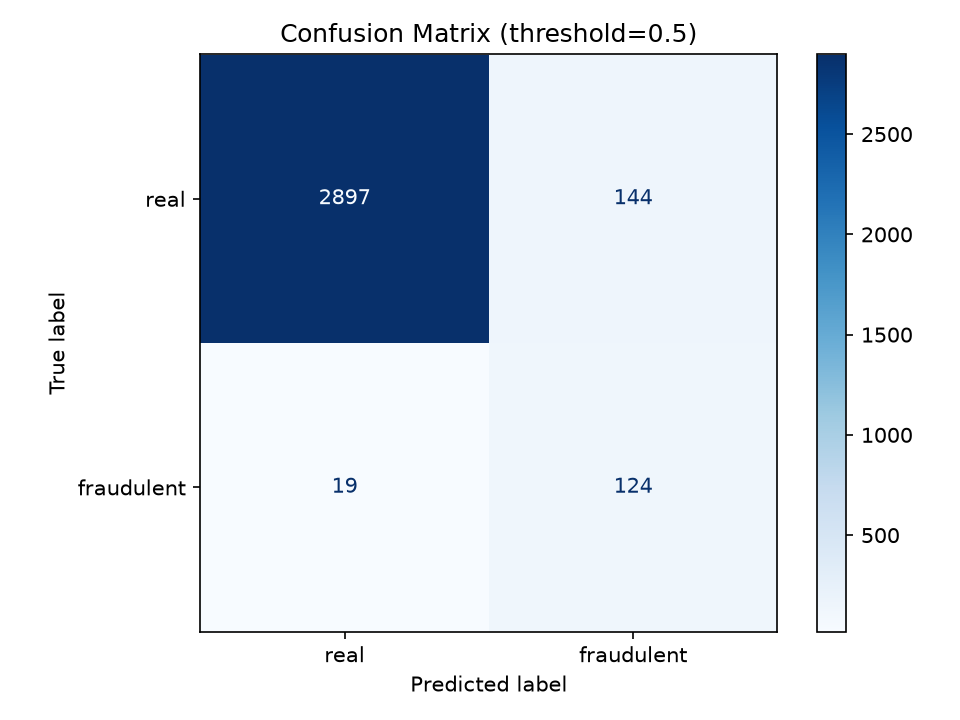
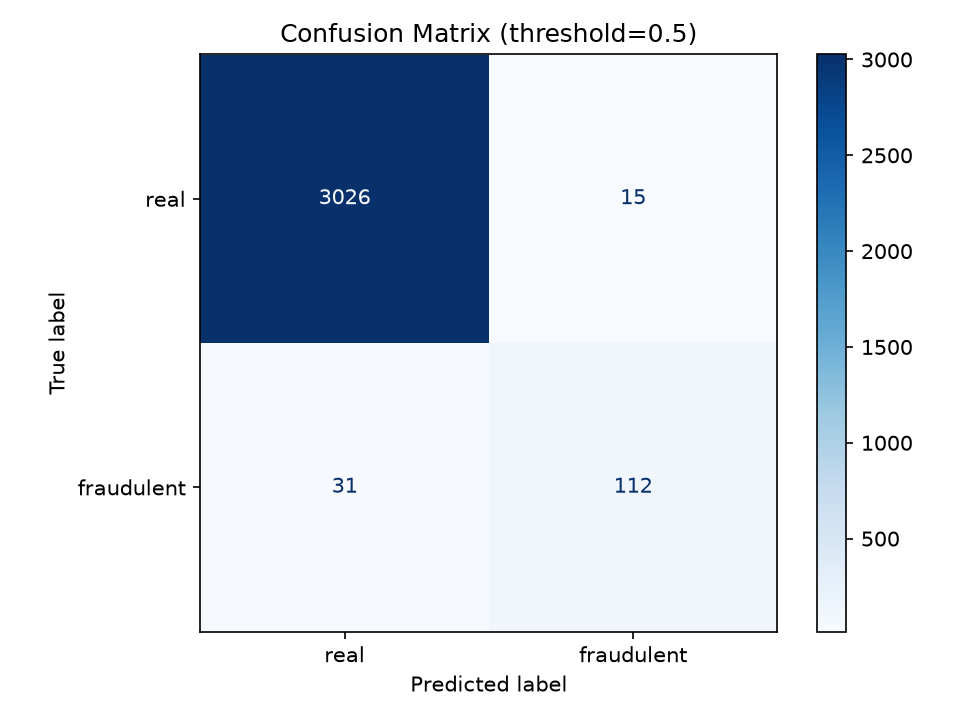
Add LightGBM results, LightGBM outperforms baseline LogReg

diff --git a/README.md b/README.md
@@ -52,17 +52,21 @@ cd ..
 
 ## Results
 
-| Model | Precision (fraud) | Recall (fraud) | F1 (fraud) | PR-AUC |
+| Model | Precision (fraud) | Recall (fraud) | F1 (fraud) | Best threshold |
 |---|---|---|---|---|
-| TF-IDF + LogReg | 0.833 | 0.699 | 0.760 | *(fill from LightGBM run)* |
-| TF-IDF + LightGBM | | | | |
+| TF-IDF + LogReg | 0.833 | 0.699 | 0.760 | 0.80 |
+| TF-IDF + LightGBM | 0.896 | 0.783 | 0.836 | 0.60 |
+
+**LightGBM outperforms Logistic Regression** across precision, recall, and F1 —
+likely because it captures non-linear interactions between structured features
+(missingness flags, keyword flags, has_company_logo) that a linear model can't.
+LightGBM is the model used going forward for error analysis.
 
 ## Notes on threshold choice
 
-Chose threshold = 0.80 for the Logistic Regression baseline after sweeping
-0.3–0.8. At this threshold: precision = 0.833, recall = 0.699, F1 = 0.760
-(highest F1 among tested values). Optimized for a balanced trade-off since
-both error types matter equally for this use case — flagging a genuine
-posting as fraud (false positive, costs the user a real opportunity) is
-just as bad as missing an actual scam (false negative, costs the user
-safety).
+For LightGBM, chose threshold = 0.60 (highest F1 = 0.836 among tested values:
+0.3–0.8). Optimized for a balanced trade-off since both error types matter
+equally for this use case — flagging a genuine posting as fraud (false
+positive, costs the user a real opportunity) is just as bad as missing an
+actual scam (false negative, costs the user safety).
+
